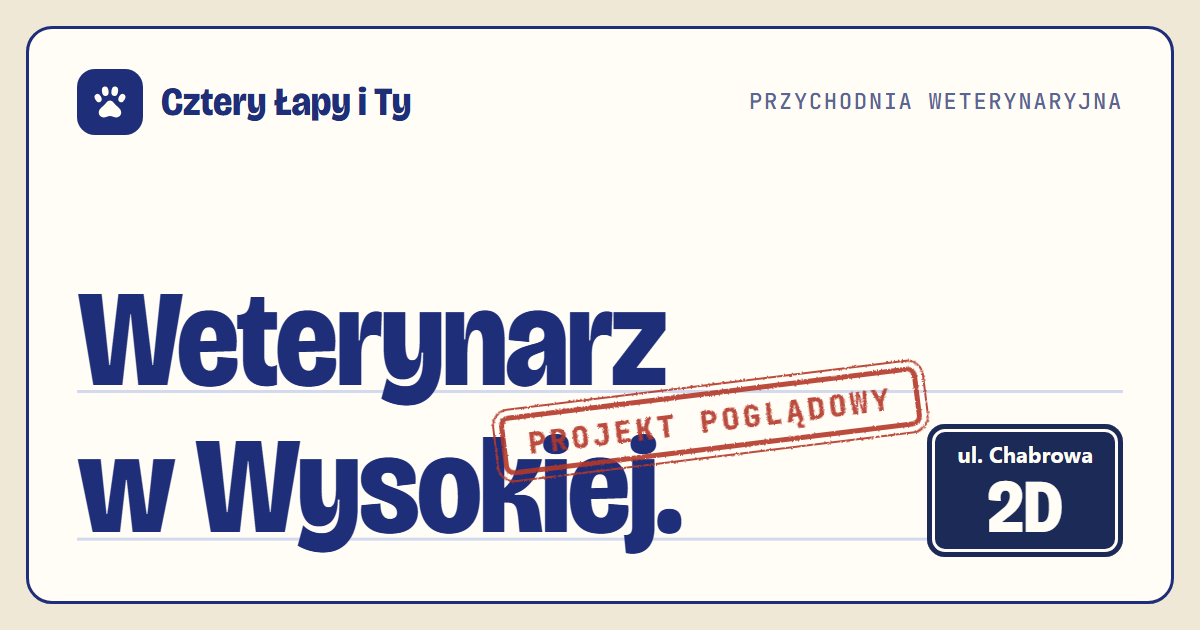
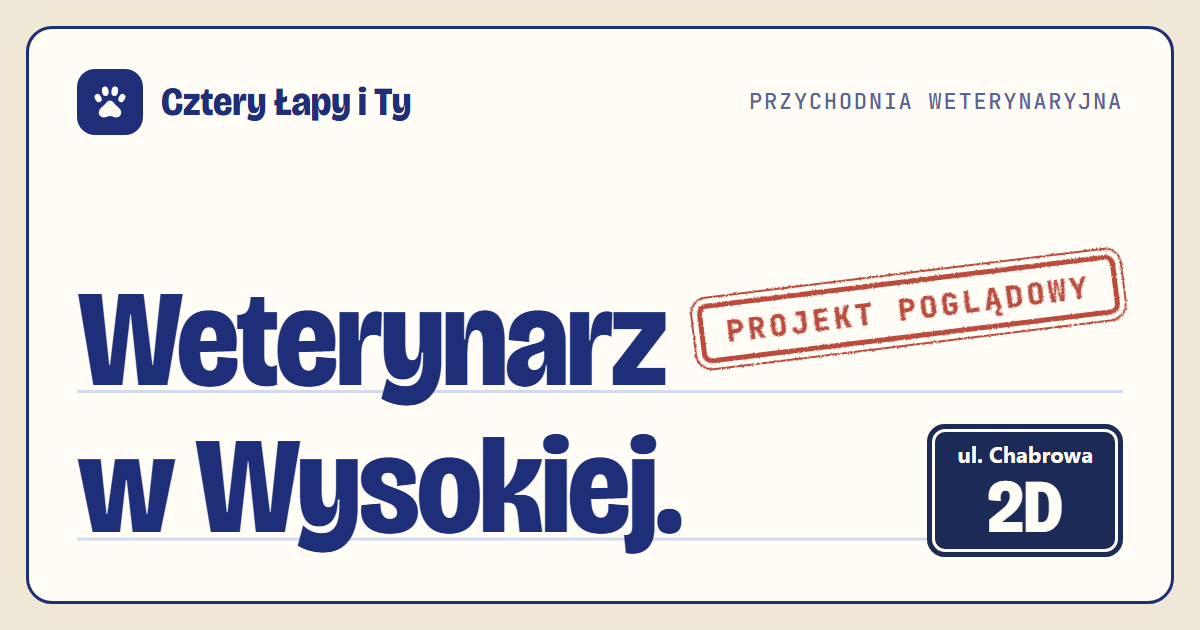
update

Changed region(s): [[0.4008, 0.3921, 0.9558, 0.7841]]

diff --git a/4lapy5/tools/og-card.html b/4lapy5/tools/og-card.html
@@ -23,7 +23,7 @@
   .plate span { font: 700 22px/1.3 system-ui, sans-serif; }
   .plate b { font-size: 76px; font-stretch: 86%; line-height: 1; }
   /* A rectangular office stamp: the page is a concept, and the preview says so. */
-  .stamp { position: absolute; right: 250px; bottom: 150px; padding: 10px 22px; border: 5px solid #b3372b; border-radius: 10px; outline: 2px solid #b3372b; outline-offset: 5px; color: #b3372b; font: 800 30px/1 'JetBrains Mono', monospace; letter-spacing: .12em; text-transform: uppercase; transform: rotate(-7deg); opacity: .9; filter: url(#rough); }
+  .stamp { position: absolute; right: 52px; top: 250px; padding: 10px 22px; border: 5px solid #b3372b; border-radius: 10px; outline: 2px solid #b3372b; outline-offset: 5px; color: #b3372b; font: 800 30px/1 'JetBrains Mono', monospace; letter-spacing: .12em; text-transform: uppercase; transform: rotate(-7deg); opacity: .9; filter: url(#rough); }
 </style>
 </head>
 <body>
